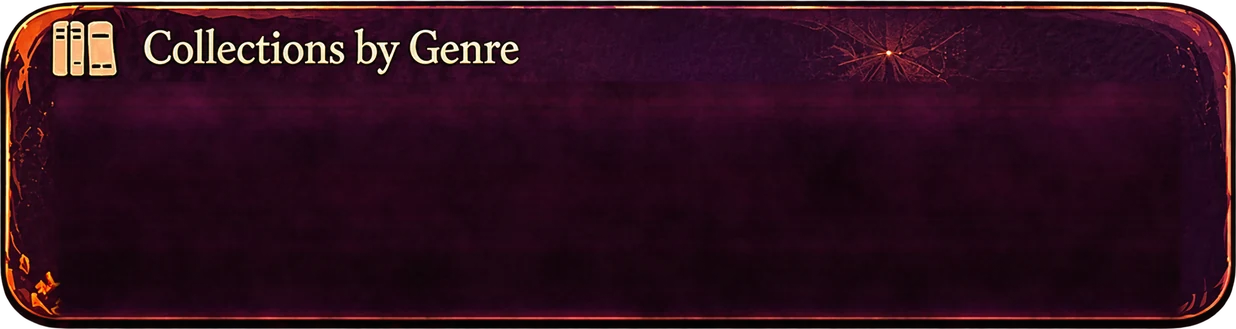
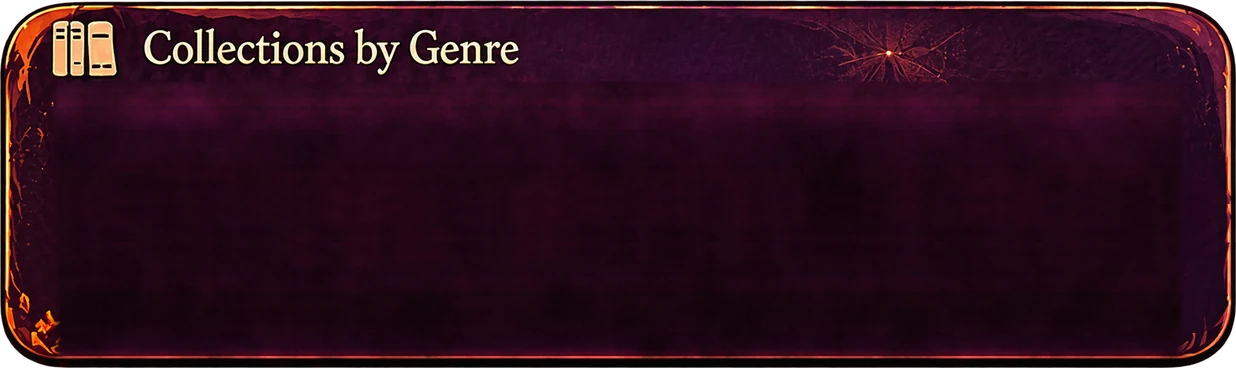
Home: cosy-corner card; three equal cards; tab bar matches; book art fixes (home-28)
New card (mug on books) between Latest Addition and Collections by
Genre; all three cards same size with equal gaps; bottom tab bar same
width as the cards. Mug books fixed with a spine end from her Home
book; blue book in the Home art now shows pages to the end.

Claude-Session: https://claude.ai/code/session_01DZ2PcvBYzxteV55TaPYX5j

diff --git a/index.html b/index.html
@@ -3,7 +3,7 @@
 <head>
 <meta charset="utf-8">
 <meta http-equiv="Cache-Control" content="no-cache">
-<meta name="app-version" content="home-27">
+<meta name="app-version" content="home-28">
 <meta name="viewport" content="width=device-width, initial-scale=1, viewport-fit=cover, user-scalable=no">
 <meta name="apple-mobile-web-app-capable" content="yes">
 <meta name="mobile-web-app-capable" content="yes">
@@ -52,7 +52,7 @@ html,body{margin:0;height:100%;background:var(--skyTop,#12051f);overflow:hidden;
 #pkGlow{mix-blend-mode:screen}
 #tabbar{position:fixed;left:0;right:0;bottom:0;z-index:5;padding-bottom:env(safe-area-inset-bottom,0px);
  background:linear-gradient(transparent,#0d0310 calc(100% - env(safe-area-inset-bottom,0px)))}
-#tabbar .in{position:relative;width:min(100vw,640px);margin:0 auto}
+#tabbar .in{position:relative;width:calc(824px * var(--S,.4577));margin:0 auto}
 #tabbar img{display:block;width:100%;height:auto;pointer-events:none}
 #tabbar .tb{position:absolute;top:12%;width:18%;height:76%;border-radius:22px;-webkit-tap-highlight-color:transparent}
 #tabbar .tb:active{background:radial-gradient(closest-side,rgba(255,170,90,.25),transparent)}
@@ -65,24 +65,26 @@ html,body{margin:0;height:100%;background:var(--skyTop,#12051f);overflow:hidden;
  -webkit-mask:radial-gradient(farthest-side,transparent calc(100% - 4px),#000 calc(100% - 3px));mask:radial-gradient(farthest-side,transparent calc(100% - 4px),#000 calc(100% - 3px))}
 .tab:active{transform:scale(.95);filter:brightness(1.15)}
 .tab:nth-child(1){left:107px}.tab:nth-child(2){left:283px}.tab:nth-child(3){left:459px}.tab:nth-child(4){left:635px}
-#reading{left:0!important;top:706px!important;width:852px;height:259px;background:url(img/reading_bg.png) center/100% 100% no-repeat;z-index:3;
+#reading{left:0!important;top:706px!important;width:852px;height:246px;background:url(img/reading_bg.png) center/100% 100% no-repeat;z-index:3;
  font-family:"EB Garamond",Georgia,serif;color:#2a1410}
 #reading>*{position:absolute}
-.cr-title{left:232px;top:93px;width:340px;font-size:35px;font-weight:700;line-height:1.1;white-space:nowrap;overflow:hidden;text-overflow:ellipsis}
-.cr-author{left:233px;top:138px;width:340px;font-size:29px;line-height:1.1;white-space:nowrap;overflow:hidden;text-overflow:ellipsis}
-.la-head{left:130px;top:24px;font-size:33px;font-weight:600;letter-spacing:.2px;color:#2a1410}
-.la-when{left:233px;top:178px;width:340px;font-size:26px;font-style:italic;color:#6a3a2a}
-#reading .bk{position:absolute;left:61px;top:66px}
+.cr-title{left:232px;top:88px;width:340px;font-size:35px;font-weight:700;line-height:1.1;white-space:nowrap;overflow:hidden;text-overflow:ellipsis}
+.cr-author{left:233px;top:131px;width:340px;font-size:29px;line-height:1.1;white-space:nowrap;overflow:hidden;text-overflow:ellipsis}
+.la-head{left:130px;top:23px;font-size:33px;font-weight:600;letter-spacing:.2px;color:#2a1410}
+.la-when{left:233px;top:169px;width:340px;font-size:26px;font-style:italic;color:#6a3a2a}
+#reading .bk{position:absolute;left:65px;top:62px;width:143px}
 
-#genres{left:24.1px!important;top:963px!important;width:824px;height:219px;transform:scale(.9738);transform-origin:0 0;background:url(img/genres_bg.webp) center/100% 100% no-repeat;z-index:3;
+#nook{left:27px!important;top:954.6px!important;width:796px;height:228px;background:url(img/nook_bg.webp) center/100% 100% no-repeat;z-index:3;
+ filter:drop-shadow(0 4px 8px rgba(0,0,0,.55))}
+#genres{left:23.4px!important;top:1192.6px!important;width:803.2px;height:238.8px;background:url(img/genres_bg.webp) center/100% 100% no-repeat;z-index:3;
  font-family:"EB Garamond",Georgia,serif;color:#fbf1da}
-#genres .gc{position:absolute;top:60px;width:123.5px;height:150.7px;padding:0;border:0;border-radius:10px;background:center/100% 100% no-repeat;color:inherit;font:inherit;cursor:pointer;
+#genres .gc{position:absolute;top:67.4px;width:120.4px;height:146.9px;padding:0;border:0;border-radius:10px;background:center/100% 100% no-repeat;color:inherit;font:inherit;cursor:pointer;
  box-shadow:0 5px 12px rgba(0,0,0,.65),0 0 3px rgba(0,0,0,.6)}
 #genres .gc:active{filter:brightness(1.15);transform:scale(.97)}
 #genres .gl,#genres .gn{position:absolute;left:0;right:0;text-align:center;white-space:nowrap;
  text-shadow:0 2px 3px rgba(0,0,0,.85),0 0 8px rgba(30,0,30,.6),0 0 2px #000}
-#genres .gl{transform:translateY(-50%);font-size:41px;font-weight:400;line-height:.95;letter-spacing:-.3px}
-#genres .gn{top:117px;font-size:32px;font-weight:400;line-height:1}
+#genres .gl{transform:translateY(-50%);font-size:40px;font-weight:400;line-height:.95;letter-spacing:-.3px}
+#genres .gn{top:114px;font-size:31px;font-weight:400;line-height:1}
 
 #clock{top:452px;left:60px;width:732px;height:88px;display:flex;flex-direction:column;align-items:center;justify-content:center;
  font-family:"IM Fell English SC",Georgia,serif;color:#f1cf7c;text-shadow:0 0 14px rgba(255,180,80,.35),0 2px 2px #000;pointer-events:none}
@@ -143,12 +145,13 @@ html,body{margin:0;height:100%;background:var(--skyTop,#12051f);overflow:hidden;
     <div class="cr-author" id="laAuthor"></div>
     <div class="la-when" id="laWhen"></div>
   </section>
+  <section id="nook" aria-label="Cosy corner"></section>
   <section id="genres" aria-label="Collections by genre">
-    <button class="gc" style="left:50.4px;background-image:url(img/genre_wiccan.webp)" data-g="Wiccan Fantasy"><span class="gl" style="top:80px">Wiccan<br>Fantasy</span><span class="gn"></span></button>
-    <button class="gc" style="left:200.5px;background-image:url(img/genre_fantasy.webp)" data-g="Fantasy"><span class="gl" style="top:79px">Fantasy</span><span class="gn"></span></button>
-    <button class="gc" style="left:350.6px;background-image:url(img/genre_romance.webp)" data-g="Romance"><span class="gl" style="top:79px">Romance</span><span class="gn"></span></button>
-    <button class="gc" style="left:500.7px;background-image:url(img/genre_classic.webp)" data-g="Classic"><span class="gl" style="top:79px">Classic</span><span class="gn"></span></button>
-    <button class="gc" style="left:650.8px;background-image:url(img/genre_other.webp)" data-g="Other"><span class="gl" style="top:79px">Other</span><span class="gn"></span></button>
+    <button class="gc" style="left:49.2px;background-image:url(img/genre_wiccan.webp)" data-g="Wiccan Fantasy"><span class="gl" style="top:78px">Wiccan<br>Fantasy</span><span class="gn"></span></button>
+    <button class="gc" style="left:195.5px;background-image:url(img/genre_fantasy.webp)" data-g="Fantasy"><span class="gl" style="top:77px">Fantasy</span><span class="gn"></span></button>
+    <button class="gc" style="left:341.8px;background-image:url(img/genre_romance.webp)" data-g="Romance"><span class="gl" style="top:77px">Romance</span><span class="gn"></span></button>
+    <button class="gc" style="left:488.1px;background-image:url(img/genre_classic.webp)" data-g="Classic"><span class="gl" style="top:77px">Classic</span><span class="gn"></span></button>
+    <button class="gc" style="left:634.4px;background-image:url(img/genre_other.webp)" data-g="Other"><span class="gl" style="top:77px">Other</span><span class="gn"></span></button>
   </section>
   <div id="clock"><div id="time">--:--</div><div id="phase"></div></div>
 </div>
@@ -176,7 +179,7 @@ let S=1,SKYX=0;
 const probe=document.createElement('div');probe.style.cssText='position:fixed;top:0;height:env(safe-area-inset-top,0px);width:0;visibility:hidden';document.body.appendChild(probe);
 function fit(){
   const top=probe.offsetHeight||0,vw=innerWidth,vh=innerHeight-top;S=Math.max(vw/852,vh/1810);
-  stage.style.transform=`translateX(-50%) scale(${S})`;
+  stage.style.transform=`translateX(-50%) scale(${S})`;document.documentElement.style.setProperty('--S',S);
   const d=Math.min(devicePixelRatio||1,3)*S;
   const ext=Math.max(0,(probe.offsetHeight||0)/S);SKYX=ext;
   sky.style.top=(-ext)+'px';sky.style.height=(H+ext)+'px';
@@ -756,7 +759,7 @@ function renderGenres(){
   const n={};BOOKS.forEach(b=>{if(b.status==='wishlist')return;const g=GENRES.includes(b.genre)?b.genre:'Other';n[g]=(n[g]||0)+1});   // owned books only
   document.querySelectorAll('#genres .gc').forEach(c=>{const k=n[c.dataset.g]||0;c.querySelector('.gn').textContent=k;
     c.setAttribute('aria-label',c.dataset.g+', '+k+' book'+(k===1?'':'s'));
-    const l=c.querySelector('.gl');l.style.fontSize='';let f=41;while(l.scrollWidth>114&&f>26){l.style.fontSize=--f+'px'}});
+    const l=c.querySelector('.gl');l.style.fontSize='';let f=40;while(l.scrollWidth>111&&f>25){l.style.fontSize=--f+'px'}});
 }
 async function loadBooks(){
   BOOKS=await Store.all();
@@ -781,7 +784,7 @@ Store.onChange(loadBooks);if(document.fonts)document.fonts.ready.then(()=>{rende
 document.addEventListener('visibilitychange',()=>{if(!document.hidden)loadBooks()});
 
 /* ---------- offline + auto-update ---------- */
-const APP_VERSION='home-27';
+const APP_VERSION='home-28';
 if('serviceWorker' in navigator)navigator.serviceWorker.register('./sw.js').catch(()=>{});
 async function checkUpdate(){
   try{
